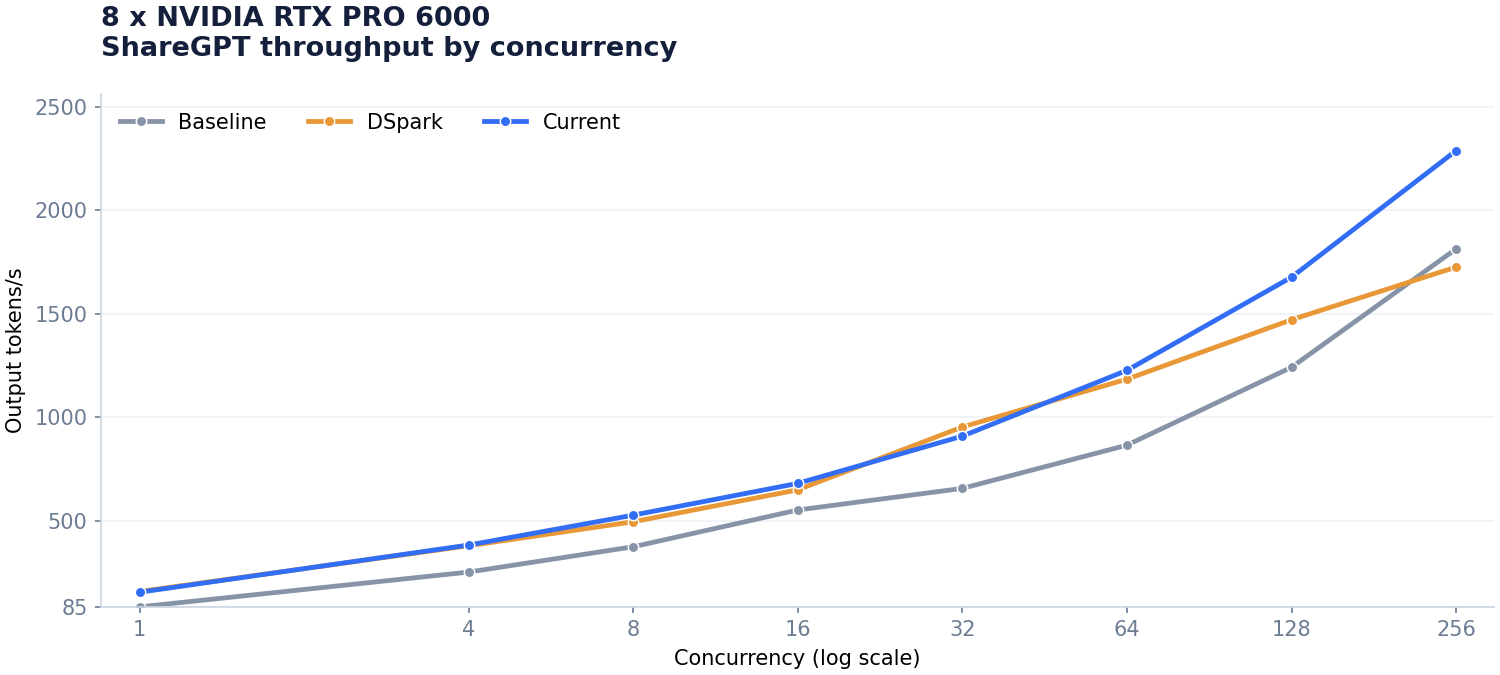
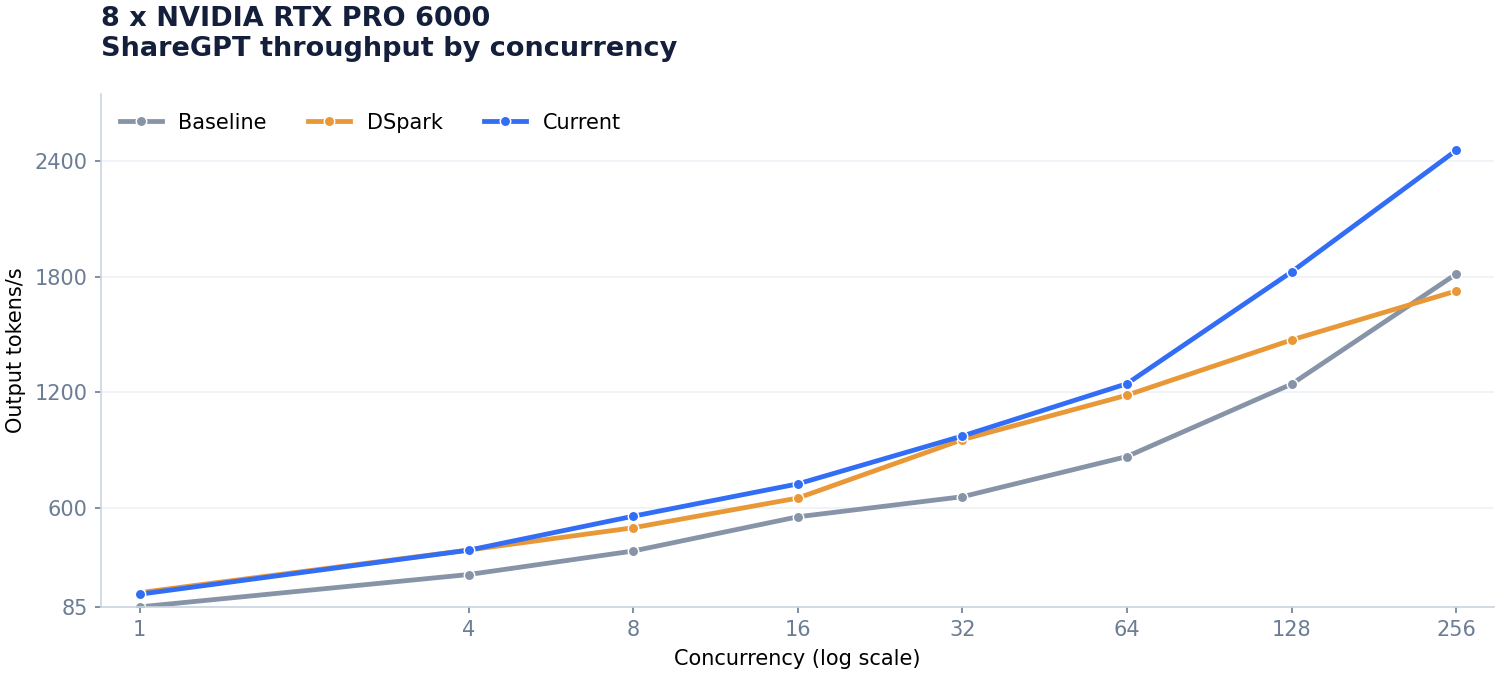
Enable adaptive verification

diff --git a/8-nvidia-rtx-pro-6000/CHANGELOG.md b/8-nvidia-rtx-pro-6000/CHANGELOG.md
@@ -4,10 +4,11 @@ The patch is cumulative against `vllm/vllm-openai:v0.32.0`; every working milest
 
 FlashInfer 0.7.1 replaces the bundled 0.7.0.post1 for runtime page-size support, and both the sm120 compatibility patch and `--block-size 64` are required.
 
-## 3. Three-token drafts
+## 4. Adaptive verification
 
-- Reduce the draft from five to three tokens because later positions are rarely accepted and still add verification work.
--    --speculative-config '{"method":"dspark","num_speculative_tokens":5,"revision":"1bae0e1088993b9b82de08f59de5be5a34e42170"}'
+- Enable the existing variable-length DeepGEMM indexer on sm120 in diff.patch because adaptive verification changes query lengths on the GPU.
+- Enable adaptive verification to skip low-confidence draft positions and reduce target-model work.
+-    --speculative-config '{"method":"dspark","num_speculative_tokens":3,"revision":"1bae0e1088993b9b82de08f59de5be5a34e42170"}'
 
 Requirements, on a fresh vLLM image:
 
@@ -31,19 +32,19 @@ vllm serve deepseek-ai/DeepSeek-V4.1-Flash-1017 \
     --reasoning-parser deepseek_v41 \
     --mm-encoder-tp-mode data \
     --block-size 64 \
-    --speculative-config '{"method":"dspark","num_speculative_tokens":3,"revision":"1bae0e1088993b9b82de08f59de5be5a34e42170"}'
+    --speculative-config '{"method":"dspark","num_speculative_tokens":3,"revision":"1bae0e1088993b9b82de08f59de5be5a34e42170","enable_adaptive_verification":true}'
 ```
 
 | Concurrency | Prompts | Output t/s | p95 TTFT (ms) | p95 TPOT (ms) |
 |---:|---:|---:|---:|---:|
-| 1 | 128 | 155.8 | 136.2 | 7.61 |
-| 4 | 128 | 383.7 | 116.2 | 12.26 |
-| 8 | 128 | 528.1 | 225.2 | 17.13 |
-| 16 | 128 | 681.7 | 284.8 | 26.60 |
-| 32 | 128 | 909.9 | 427.0 | 39.72 |
-| 64 | 128 | 1227.4 | 872.2 | 50.68 |
-| 128 | 256 | 1677.5 | 1451.8 | 81.97 |
-| 256 | 512 | 2288.8 | 2785.3 | 143.19 |
+| 1 | 128 | 150.8 | 132.0 | 8.02 |
+| 4 | 128 | 379.7 | 122.8 | 12.63 |
+| 8 | 128 | 556.3 | 222.2 | 16.57 |
+| 16 | 128 | 724.1 | 279.6 | 27.41 |
+| 32 | 128 | 973.0 | 422.4 | 35.92 |
+| 64 | 128 | 1244.8 | 870.5 | 48.16 |
+| 128 | 256 | 1825.4 | 1503.1 | 76.11 |
+| 256 | 512 | 2456.4 | 2984.4 | 156.38 |
 
 ## Accepted progress
 
@@ -51,4 +52,5 @@ vllm serve deepseek-ai/DeepSeek-V4.1-Flash-1017 \
 |---:|---|---:|---|
 | 1 | sm120 support | 85.0 | [`0cd46b2`](https://github.com/alvarobartt/DeepSeek-V4.1-Flash-RTX-PRO-6000/tree/0cd46b25086a61436eb0979abf115f66442e889e) |
 | 2 | DSpark decoding | 159.2 | [`e5ac344`](https://github.com/alvarobartt/DeepSeek-V4.1-Flash-RTX-PRO-6000/tree/e5ac344074d1e9141c50e3178cde4e2a3680da8b) |
-| 3 | Three-token drafts | 155.8 | This revision |
+| 3 | Three-token drafts | 155.8 | [`992d4ea`](https://github.com/alvarobartt/DeepSeek-V4.1-Flash-RTX-PRO-6000/tree/992d4eac7bd5f3aab0f2e62a012719471ffffb18) |
+| 4 | Adaptive verification | 150.8 | This revision |

diff --git a/README.md b/README.md
@@ -15,14 +15,14 @@ Validated serving recipes for four and eight GPUs, using the checkpoint's origin
 
 | Concurrency | Baseline t/s [^8gpu-baseline] | Baseline + DSpark t/s | Current t/s |
 |---:|---:|---:|---:|
-| 1 | 85.0 | **159.2 (+87.3%)** | 155.8 (-2.1%) |
-| 4 | 253.2 | 380.4 (+50.2%) | **383.7 (+0.9%)** |
-| 8 | 375.4 | 496.2 (+32.2%) | **528.1 (+6.4%)** |
-| 16 | 553.1 | 650.5 (+17.6%) | **681.7 (+4.8%)** |
-| 32 | 657.4 | **954.1 (+45.1%)** | 909.9 (-4.6%) |
-| 64 | 866.2 | 1185.0 (+36.8%) | **1227.4 (+3.6%)** |
-| 128 | 1242.4 | 1471.9 (+18.5%) | **1677.5 (+14.0%)** |
-| 256 | 1814.1 | 1726.3 (-4.8%) | **2288.8 (+32.6%)** |
+| 1 | 85.0 | **159.2 (+87.3%)** | 150.8 (-5.3%) |
+| 4 | 253.2 | **380.4 (+50.2%)** | 379.7 (-0.2%) |
+| 8 | 375.4 | 496.2 (+32.2%) | **556.3 (+12.1%)** |
+| 16 | 553.1 | 650.5 (+17.6%) | **724.1 (+11.3%)** |
+| 32 | 657.4 | 954.1 (+45.1%) | **973.0 (+2.0%)** |
+| 64 | 866.2 | 1185.0 (+36.8%) | **1244.8 (+5.0%)** |
+| 128 | 1242.4 | 1471.9 (+18.5%) | **1825.4 (+24.0%)** |
+| 256 | 1814.1 | 1726.3 (-4.8%) | **2456.4 (+42.3%)** |
 
 ![Accepted ShareGPT c1 throughput](8-nvidia-rtx-pro-6000/throughput.png)
 
